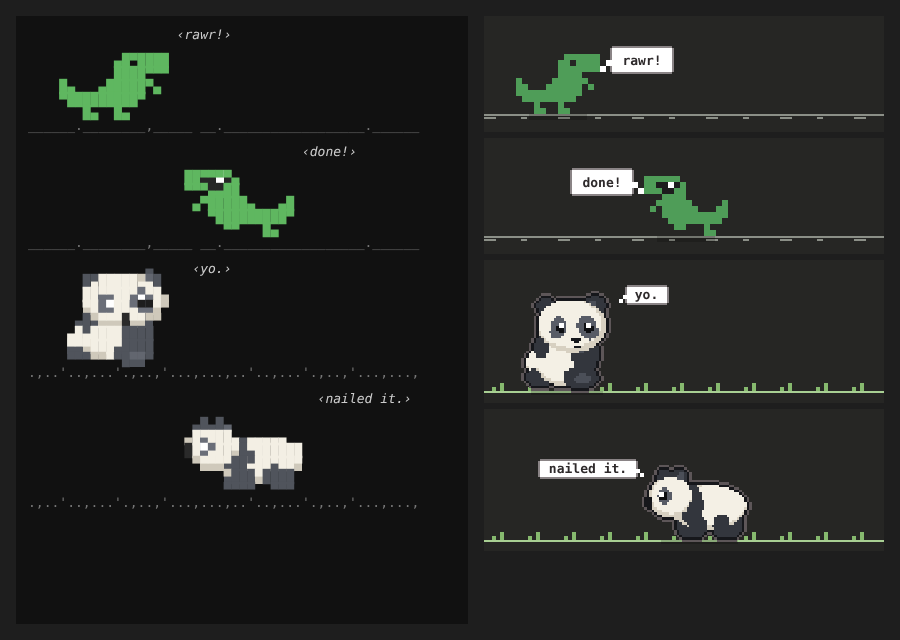
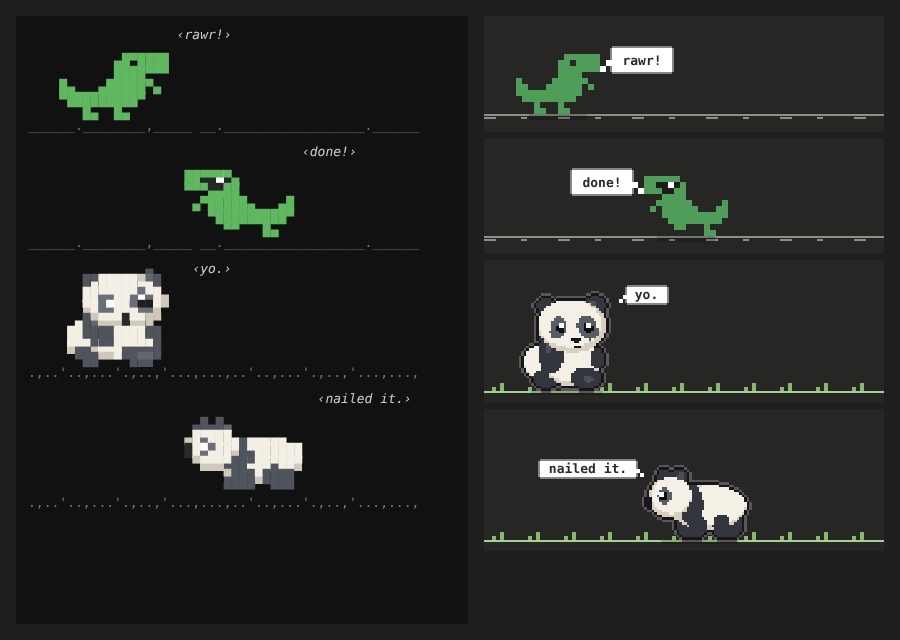
buddy: turn the sitting panda's body the same way as its head
The belly now bulges towards the side the panda faces, with the arm and
white hip behind it and the front foot planted on the facing side.

Claude-Session: https://claude.ai/code/session_01FB6BJrRqbn2oSwVncdYdDf

Changed region(s): [[0.56, 0.5312, 0.6844, 0.625], [0.0622, 0.5, 0.1867, 0.5938]]

diff --git a/plugins/buddy/hooks/panda.ts b/plugins/buddy/hooks/panda.ts
@@ -28,20 +28,22 @@ const furBall = (cx: number, cy: number, rx: number, ry: number): Shape[] => [
 ]
 
 function sitting(s: Scene): Pose {
-  // Three-quarter view, turned towards where it faces: a white hip behind,
-  // a big round belly, and the near arm hanging down over it
+  // Three-quarter view, head and body both turned towards where it faces:
+  // the belly bulges that way, with the arm and white hip behind it
   const shapes: Shape[] = [
-    ...furBall(6.4, 17.6, 4.4, 4.4),
-    ell('K', 5.2, 21, 3.2, 2.4),
-    ...furBall(11.4, 17, 7.2, 6.2),
-    // Far arm peeking out, the shoulder band, and the near arm
-    ell('K', 5.6, 13.8, 1.8, 2.6),
+    // Behind, on the side it faces away from: the white hip and back leg
+    ...furBall(5.6, 17.4, 4.2, 4.4),
+    ell('K', 7, 21.2, 3.6, 2.4),
+    // The big belly, bulging towards the side it faces
+    ...furBall(13.2, 17, 7, 6.2),
+    // The black arm along the back of the belly, and the shoulder band
+    ell('K', 8.2, 15, 3.2, 5.2),
+    ell('k', 7.6, 13.2, 0.9, 2),
     ell('K', 12.6, 11.4, 7.6, 2),
-    ell('K', 16.6, 15, 3.4, 5.2),
-    ell('k', 15.8, 13.2, 0.9, 2),
-    // The near foot planted in front, with its pad
-    ell('K', 15.4, 21, 4.4, 2.8),
-    ell('k', 16, 21.4, 2, 1.2),
+    // A small paw on the facing side, and the front foot planted in front
+    ...(s.isMunching ? [] : [ell('K', 19.6, 16.4, 1.7, 2.6)]),
+    ell('K', 16.8, 21.2, 3.9, 2.6),
+    ell('k', 17.4, 21.5, 1.3, 0.8),
     // Ears: the far one smaller
     ell('K', 6.8, 3.4, 2.2, 2.2),
     ell('K', 19, 3.2, 2.6, 2.5),
